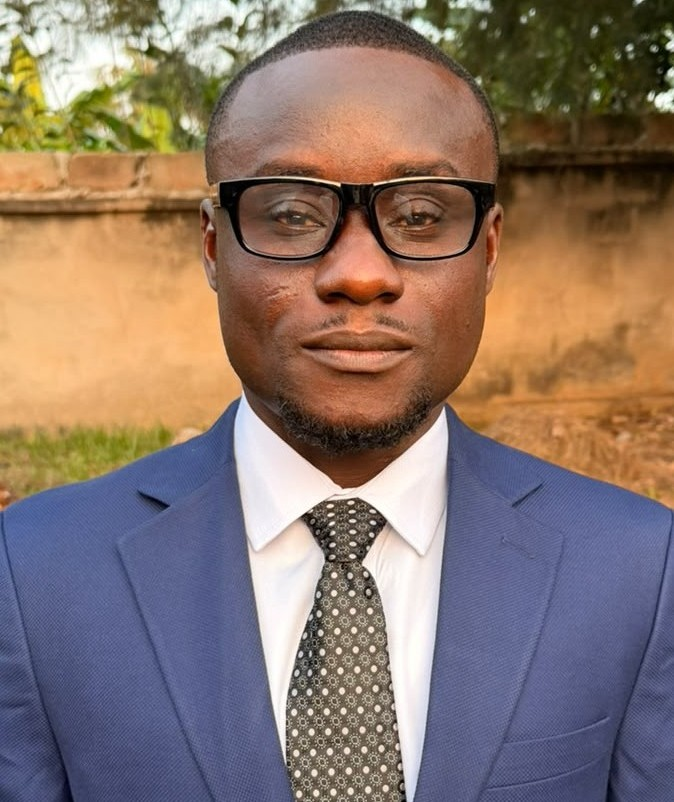
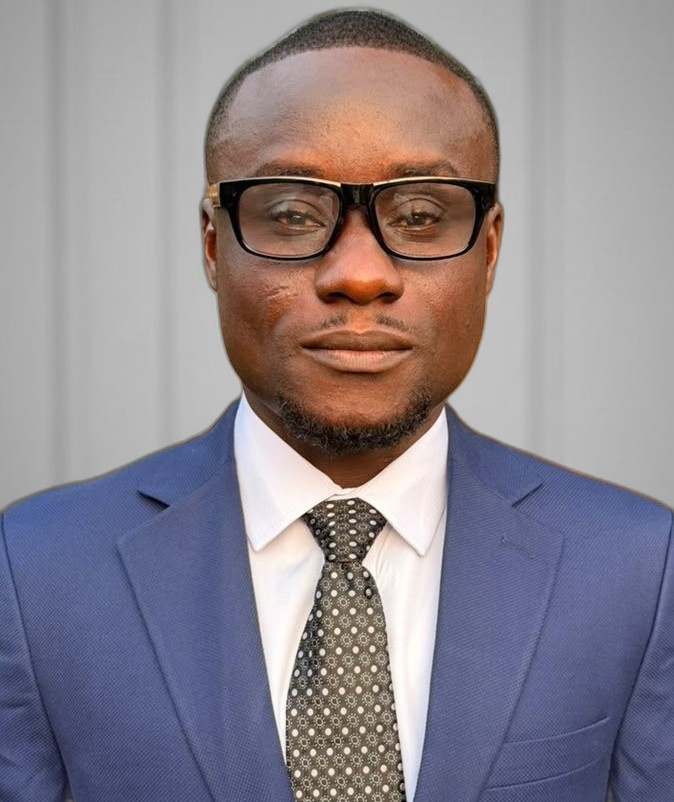
Place Nana portrait on extracted studio background.

diff --git a/index.html b/index.html
@@ -273,7 +273,7 @@
       <p class="team-label" id="founders">Founders</p>
       <div class="founder-grid">
         <article class="person-card">
-          <img class="person-photo" src="assets/founder-nana.jpg?v=11" alt="Nana Safo Duker" width="674" height="802" loading="lazy" decoding="async">
+          <img class="person-photo" src="assets/founder-nana.jpg?v=12" alt="Nana Safo Duker" width="674" height="802" loading="lazy" decoding="async">
           <h3>Nana Safo Duker</h3>
           <p class="person-role">Co-Founder &amp; CEO</p>
           <a class="person-link" href="https://nana-safo-duker.github.io/" target="_blank" rel="noopener">Website</a>
